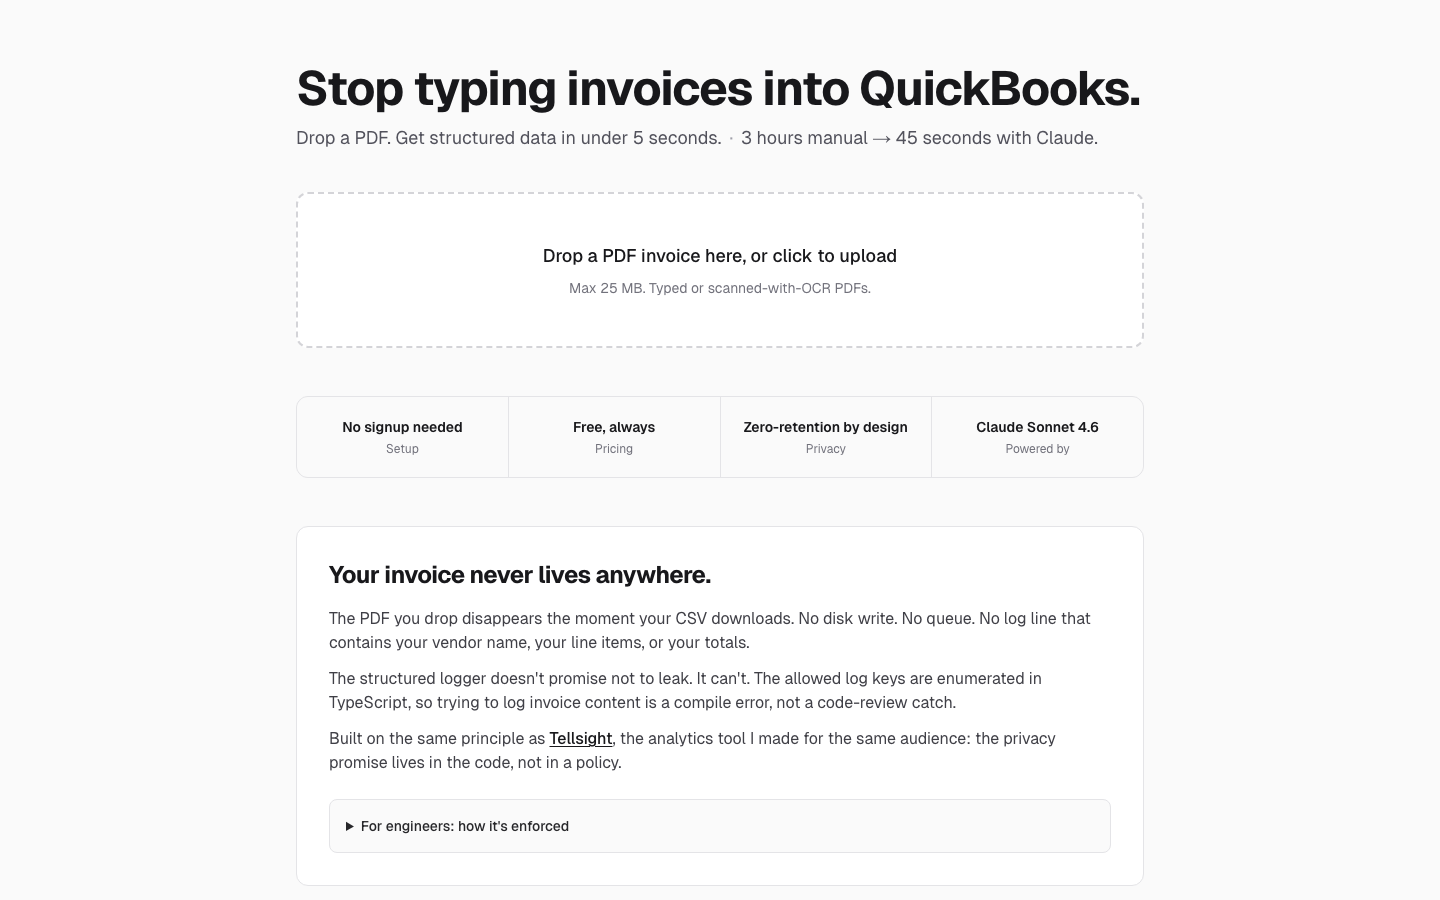
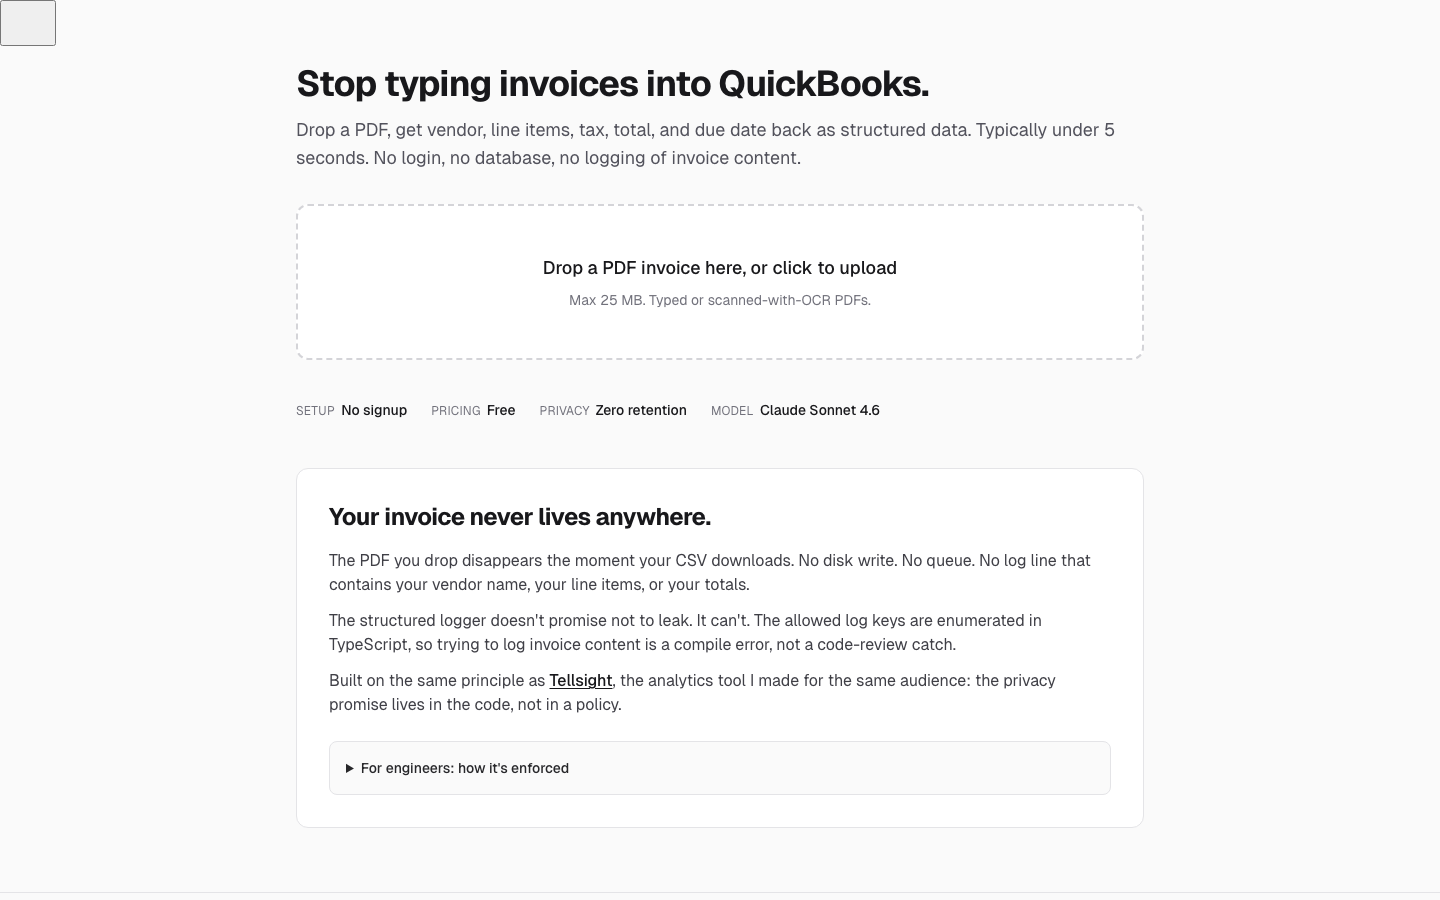
Tighten landing copy and inline the trust strip
The prior hero subhead leaned on a 3-hour-manual to 45-second framing
with a unicode arrow that read more like generated marketing copy than
a tool's product surface. Replace it with a plain description of what
comes back and the privacy posture, drop the headline a tier so the
page reads denser.

The four-tile trust strip was the canonical Vercel-template shape; the
information is real, the form was generic. Inline it as a label/value
strip in the same row instead.

Replace the middot separators in the results meta and error code line
with commas. They were used eight-plus times across the page, which
read ornamental rather than structural.

Recapture landing.png and error-state.png locally to match. The
extract-success.png and csv-export.png screenshots will refresh on
the next production run of scripts/screenshots.mjs since the local
dev server cannot reach the Anthropic API.

diff --git a/src/app/page.tsx b/src/app/page.tsx
@@ -137,19 +137,14 @@ export default function Home() {
       className="min-h-screen bg-zinc-50 text-zinc-900 dark:bg-zinc-950 dark:text-zinc-100"
     >
       <div className="mx-auto max-w-4xl px-6 py-16">
-        <header className="mb-10">
-          <h1 className="text-4xl font-bold tracking-tight sm:text-5xl">
+        <header className="mb-8">
+          <h1 className="text-3xl font-bold tracking-tight sm:text-4xl">
             Stop typing invoices into QuickBooks.
           </h1>
-          <p className="mt-3 text-lg text-zinc-600 dark:text-zinc-400">
-            Drop a PDF. Get structured data in under 5 seconds.
-            <span
-              aria-hidden="true"
-              className="mx-2 text-zinc-400"
-            >
-              ·
-            </span>
-            3 hours manual → 45 seconds with Claude.
+          <p className="mt-3 text-base text-zinc-600 dark:text-zinc-400 sm:text-lg">
+            Drop a PDF, get vendor, line items, tax, total, and due date back as
+            structured data. Typically under 5 seconds. No login, no database,
+            no logging of invoice content.
           </p>
         </header>
 
@@ -289,39 +284,27 @@ function ResultsView({
 
   return (
     <section className="mt-8 space-y-6" aria-label="Extraction results">
-      <div className="flex flex-wrap items-center justify-between gap-2 text-sm text-zinc-500">
+      <div className="flex flex-wrap items-center justify-between gap-x-4 gap-y-1 text-sm text-zinc-500">
         <span>
           <span className="font-medium text-zinc-700 dark:text-zinc-300">
             {filename}
           </span>
-          <span aria-hidden="true" className="mx-2">
-            ·
-          </span>
-          {result.pdf.num_pages} page{result.pdf.num_pages === 1 ? "" : "s"}
-          <span aria-hidden="true" className="mx-2">
-            ·
-          </span>
-          {(result.duration_ms.total / 1000).toFixed(1)}s total
-          <span aria-hidden="true" className="mx-2">
-            ·
-          </span>
+          {", "}
+          {result.pdf.num_pages} page{result.pdf.num_pages === 1 ? "" : "s"},{" "}
+          {(result.duration_ms.total / 1000).toFixed(1)}s,{" "}
           {result.usage.input_tokens + result.usage.output_tokens} tokens
         </span>
         <span>
-          Confidence:{" "}
           <b className="text-green-700 dark:text-green-400">
             {summary.high} high
           </b>
-          <span aria-hidden="true" className="mx-2">
-            ·
-          </span>
+          {", "}
           <b className="text-amber-700 dark:text-amber-400">
-            {summary.medium} medium
+            {summary.medium} med
           </b>
-          <span aria-hidden="true" className="mx-2">
-            ·
-          </span>
+          {", "}
           <b className="text-red-700 dark:text-red-400">{summary.low} low</b>
+          <span className="ml-1">confidence</span>
         </span>
       </div>
 

diff --git a/src/components/trust-strip.tsx b/src/components/trust-strip.tsx
@@ -1,33 +1,30 @@
-interface TrustTile {
+interface TrustFact {
   label: string;
   value: string;
 }
 
-const TILES: readonly TrustTile[] = [
-  { label: "Setup", value: "No signup needed" },
-  { label: "Pricing", value: "Free, always" },
-  { label: "Privacy", value: "Zero-retention by design" },
-  { label: "Powered by", value: "Claude Sonnet 4.6" },
+const FACTS: readonly TrustFact[] = [
+  { label: "Setup", value: "No signup" },
+  { label: "Pricing", value: "Free" },
+  { label: "Privacy", value: "Zero retention" },
+  { label: "Model", value: "Claude Sonnet 4.6" },
 ];
 
 export function TrustStrip() {
   return (
     <section
       aria-label="At a glance"
-      className="mt-12 grid grid-cols-2 gap-px overflow-hidden rounded-xl border border-zinc-200 bg-zinc-200 dark:border-zinc-800 dark:bg-zinc-800 sm:grid-cols-4"
+      className="mt-10 flex flex-wrap gap-x-6 gap-y-2 text-sm text-zinc-600 dark:text-zinc-400"
     >
-      {TILES.map((tile) => (
-        <div
-          key={tile.label}
-          className="bg-zinc-50 px-4 py-5 text-center dark:bg-zinc-950"
-        >
-          <div className="text-sm font-semibold text-zinc-900 dark:text-zinc-100">
-            {tile.value}
-          </div>
-          <div className="mt-1 text-xs text-zinc-500 dark:text-zinc-500">
-            {tile.label}
-          </div>
-        </div>
+      {FACTS.map((fact) => (
+        <span key={fact.label} className="inline-flex items-baseline gap-1.5">
+          <span className="text-xs uppercase tracking-wide text-zinc-500">
+            {fact.label}
+          </span>
+          <span className="font-medium text-zinc-900 dark:text-zinc-100">
+            {fact.value}
+          </span>
+        </span>
       ))}
     </section>
   );

diff --git a/src/components/error-state.tsx b/src/components/error-state.tsx
@@ -90,10 +90,8 @@ export function ErrorState({
         code: <code className="font-mono">{code}</code>
         {correlationId && (
           <>
-            <span className="mx-2" aria-hidden="true">
-              ·
-            </span>
-            request: <code className="font-mono">{correlationId}</code>
+            {", "}request:{" "}
+            <code className="font-mono">{correlationId}</code>
           </>
         )}
       </p>
